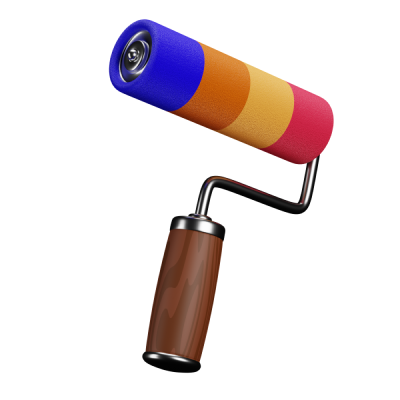
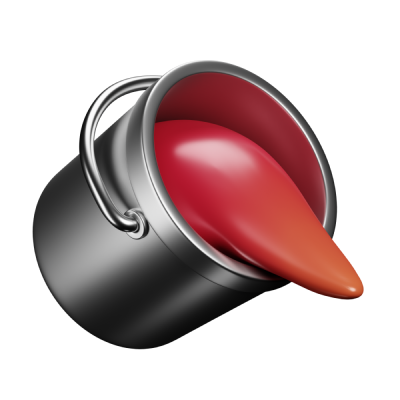
fix: mos kelmaydigan 3D iconlarni tuzatish (santexnik/stomatologiya/tozalash)
- tozalash → 3D paqir (bucket) — tozalashga aynan mos (roll-brush emas)
- santexnik → toza Lucide (suv tomchisi) — bepul 3D'da quvur/suv iconi yo'q
- stomatologiya → toza Lucide (tish) — bepul 3D'da tish iconi yo'q

Prinsip: mos 3D bor joyda 3D, mos yo'q joyda aniq flat icon.

diff --git a/lib/models/service_hub_kind.dart b/lib/models/service_hub_kind.dart
@@ -139,7 +139,6 @@ extension ServiceHubKindX on ServiceHubKind {
     ServiceHubKind.ishchi => 'assets/images/services3d/ishchi.png',
     ServiceHubKind.usta => 'assets/images/services3d/usta.png',
     ServiceHubKind.elektrik => 'assets/images/services3d/elektrik.png',
-    ServiceHubKind.santexnik => 'assets/images/services3d/santexnik.png',
     ServiceHubKind.tozalash => 'assets/images/services3d/tozalash.png',
     ServiceHubKind.avtoYordam => 'assets/images/services3d/avtoYordam.png',
     ServiceHubKind.enaga => 'assets/images/services3d/enaga.png',
@@ -157,9 +156,10 @@ extension ServiceHubKindX on ServiceHubKind {
     ServiceHubKind.kompUsta => 'assets/images/services3d/kompUsta.png',
     ServiceHubKind.boshqa => 'assets/images/services3d/boshqa.png',
     ServiceHubKind.yana => 'assets/images/services3d/yana.png',
-    // Aynan mos 3D icon yo'q — eng yaqin variant (lab/umbrella)
-    ServiceHubKind.stomatologiya => 'assets/images/services3d/stomatologiya.png',
     ServiceHubKind.konditsioner => 'assets/images/services3d/konditsioner.png',
+    // Bepul 3D to'plamda quvur/tish iconi yo'q — aniq flat Lucide icon ishlatiladi
+    ServiceHubKind.santexnik => null,
+    ServiceHubKind.stomatologiya => null,
   };
 
   Color get accent => switch (this) {
